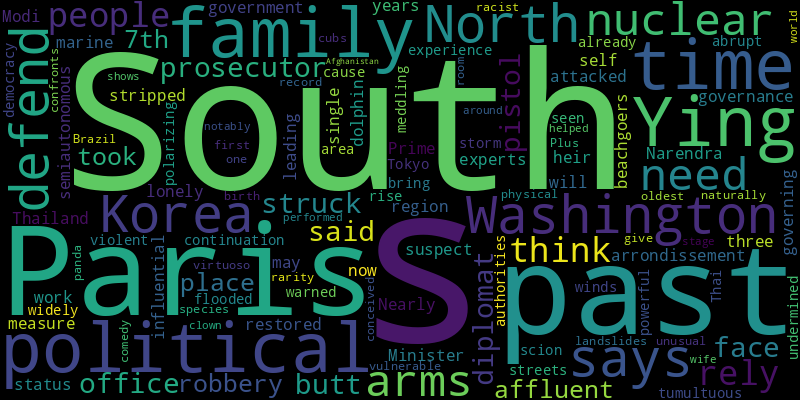
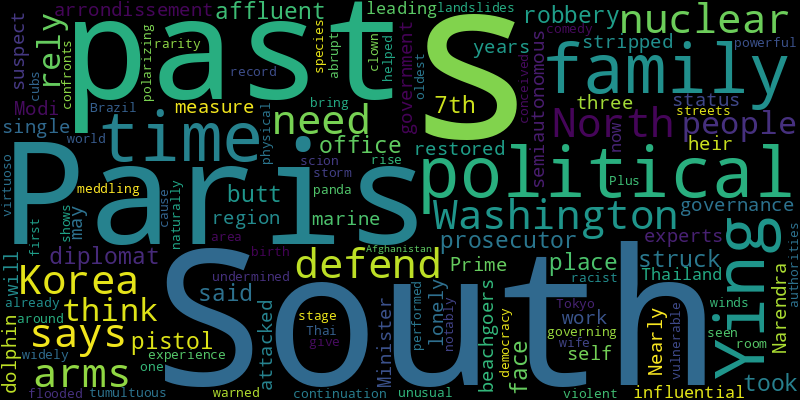
chore(bot): 🙈 auto commit

diff --git a/README.md b/README.md
@@ -2,29 +2,29 @@
 Auto RSS New York Times and Generate Word Cloud
 
 ## New York Times Global News
-* A 9-year-old Palestinian boy lost his mother, father and two siblings in an Israeli airstrike early in the Gaza war. Within months, he, too, was killed.
+* The nation is in anguish as it buries its dead and enters a new era of authoritarianism.
+* In the regional capital, those who left their homes as Ukrainian forces tore into western Russia are uncertain whether they can ever return to their old lives.
+* Residents of the village in the Israeli-occupied West Bank say one Palestinian man was killed by rampaging settlers. Israel’s military confirmed the village was attacked.
+* A Rio Tinto mine that Europe sees as a critical source for electric vehicle batteries has been the target of enormous protests. “I don’t need green cars. I need green apples and green grass,” said one opponent.
+* The secretary of state’s trip comes days after negotiations in Qatar ended without a major breakthrough.
+* Prime Minister Giorgia Meloni has mostly shown a pragmatic streak abroad. But at home, her government is plunging many gay families into panic.
+* The incursion caught Russia by surprise and signified a shift in tactics for Kyiv after more than two years of war with Russia.
+* More than 300 have been processed in a prison in Ukraine, providing the country with a much-needed “exchange fund” for future swaps of prisoners of war.
 * Disillusioned with grad school, Nigel Braun dropped out to film chemistry videos in his parents’ garage in Montreal. Then millions began viewing his whimsical and occasionally dangerous experiments.
-* It would be one of the deadliest attacks in the country since Israel began fighting its war in Gaza. Negotiators have been pushing to reach a cease-fire in that war, hoping to avert a wider conflagration.
-* The bridge’s destruction is a setback for Russian supply lines as Ukraine seeks to consolidate its territorial gains in the Kursk region of western Russia.
-* Washington says it would defend the South against North Korea with nuclear arms, if need be. But more and more people in the South think it should rely on itself.
-* Ukraine’s forces could try advancing farther on Russian soil, or return to the front line, where Moscow is making gains. There are arguments for various options.
-* Experts expect more cases to surface in European countries because of frequent travel to and from Africa, with the threat of contracting the disease raised from “very low” to “low.”
-* The delay is meant to allow mediators time to make a high-stakes push for a cease-fire to end the war in Gaza, according to U.S., Iranian and Israeli officials, who warn
-* The militant group has vowed to retaliate against Israel for the assassination of a commander. But if that leads to an all-out war, Lebanon may turn against it.
-* The abrupt rise of the scion of a powerful and polarizing political family is widely seen as a continuation of the meddling that has undermined Thai democracy.
+* A 9-year-old Palestinian boy lost his mother, father and two siblings in an Israeli airstrike early in the Gaza war. Within months, he, too, was killed.
 
 ![Global](./global.png)
 ## New York Times United States News
 * John F. Manning has served as interim provost since March, and is considered a top contender for university president.
-* Nemat Shafik was vilified on almost all sides for her handling of the protests over the Israel-Hamas war. When given an offramp, she took it.
-* Conservatives have criticized Gov. Tim Walz over the law, but schools have not taken it as a mandate to put menstrual products into boys’ restrooms.
-* City Attorney David Chiu has filed a lawsuit seeking to permanently shutter 16 popular websites that turn images of real girls and women into pornography.
+* In Rodanthe, N.C., seven homes have been lost to the ocean in the last four years, as rising sea levels erode shorelines and put more buildings at risk.
 * Over her career, her rhetoric has tracked the national mood. So do Americans now want a prosecutor-in-chief?
-* Kamala Harris and Donald Trump are in close races across Arizona, Georgia, Nevada and North Carolina, crucial swing states that Mr. Trump had seemed en route to run away with just a few weeks ago.
-* The vice president’s brain trust is younger, more racially diverse and larger than President Biden’s. Her advisers can expect a lot of phone calls in the coming weeks.
-* We examine the two candidates’ criticisms of each other’s policies, promises and records.
-* About 50,000 people are expected in the nation’s third-largest city for the Democrats’ convention. Some Chicagoans are thrilled. Others are fleeing town.
-* The former president’s vision of using the military to enforce the law domestically would carry profound implications for civil liberties.
+* About 50,000 people are expected in the nation’s third-largest city for the Democrats’ convention. Some Chicagoans are thrilled. Others are skipping town.
+* An unusual and chaotic set of political circumstances forced Illinois’s billionaire governor to take the lead in securing the Democratic convention for Chicago.
+* A far-right plank on immigration that is rooted in a baseless theory has found purchase among Republicans and right-leaning independents in parts of Ohio.
+* The crisis continues to play out on the city’s streets, reminding Democrats of a potential liability — border crossings — ahead of the election.
+* Nearly 14 years ago, Kamala Harris’s opponent in the California attorney general’s race gave an answer at a little-watched debate that was frank — and fateful for the future Democratic presidential nominee.
+* As President Biden’s understudy, Ms. Harris did not often get to lead on signature issues. But she found roles to play on abortion rights, gun safety and a Supreme Court appointment.
+* At a rally in Pennsylvania, former President Donald J. Trump vacillated between criticisms of the economy and immigration and personal attacks on Vice President Kamala Harris.
 
 ![US](./usnews.png)
 ## New York Times Asia News
